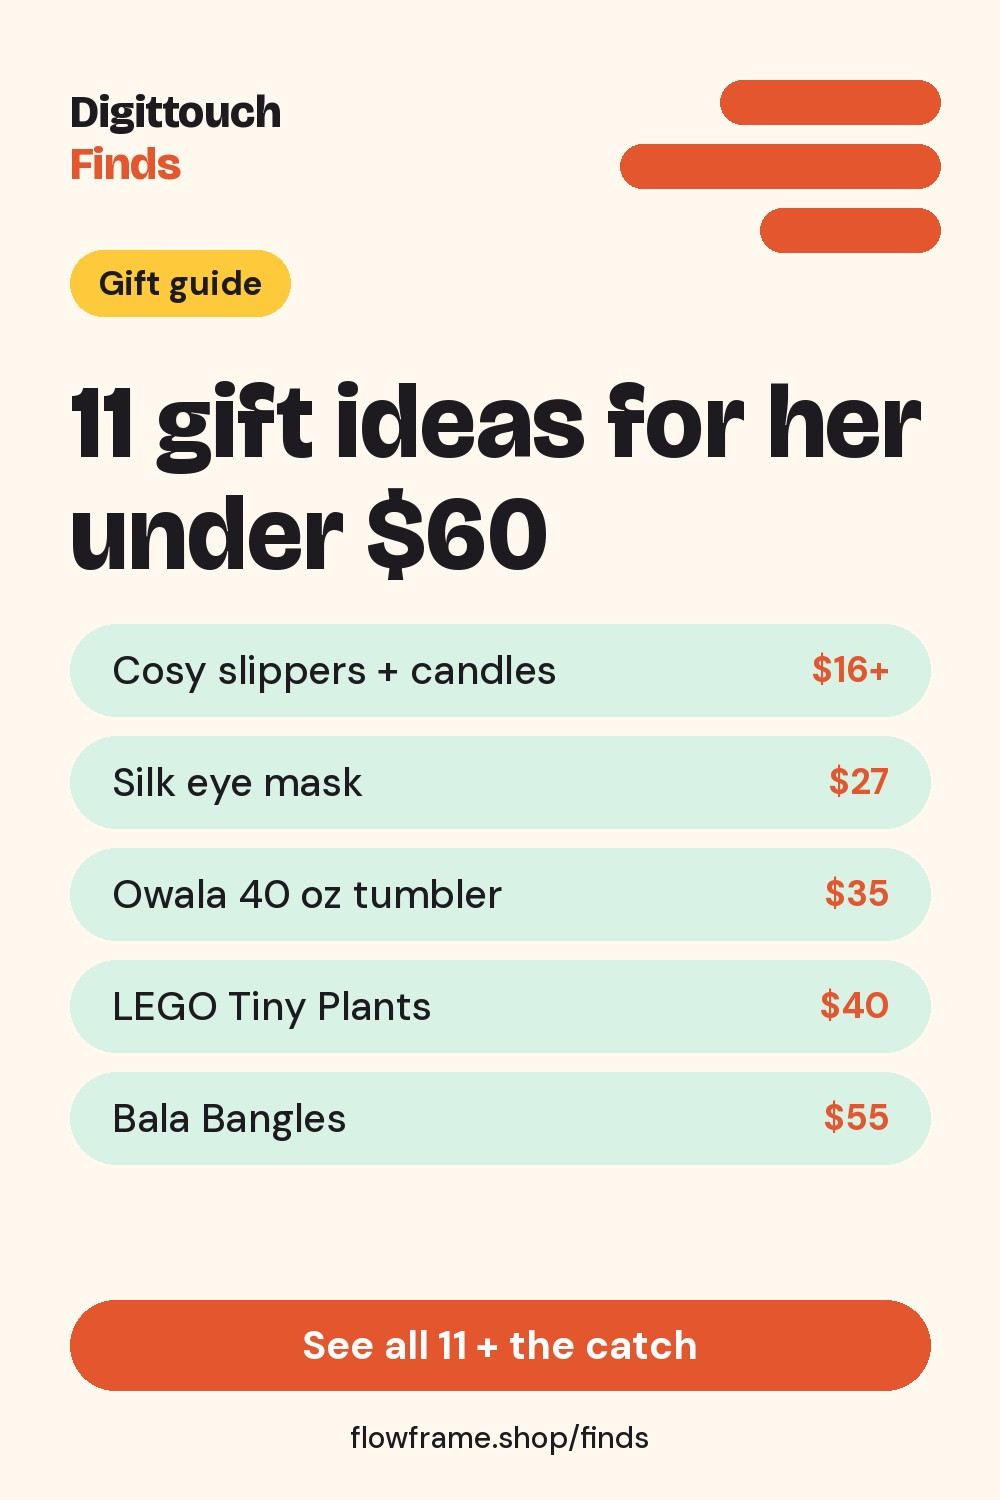
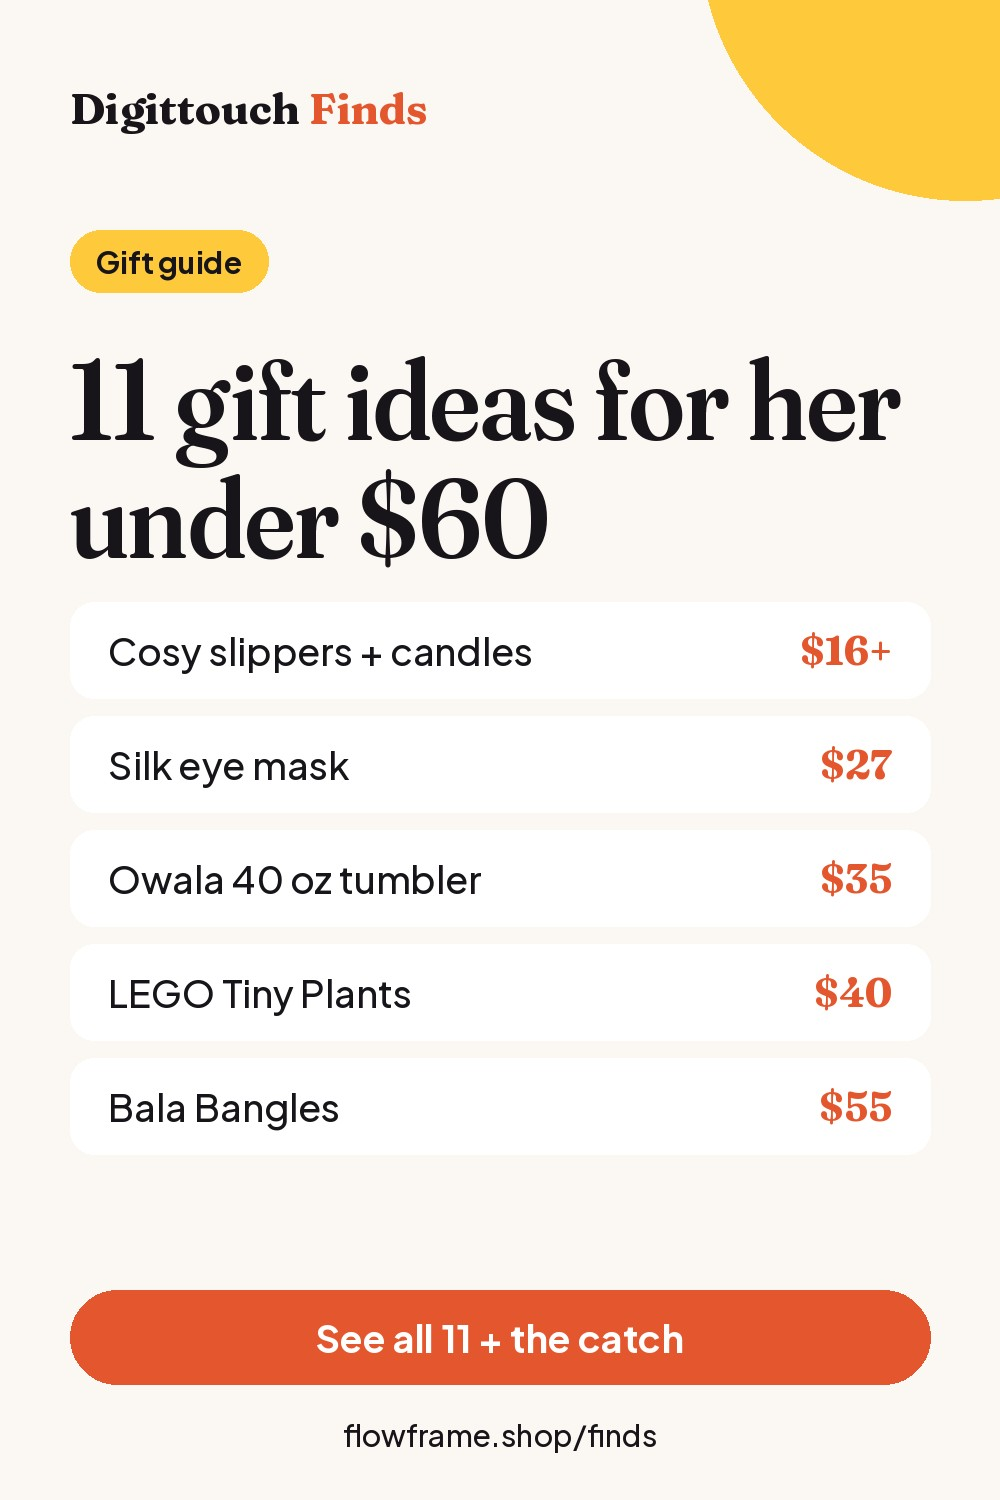
Guide typography v5: Fraunces display + Plus Jakarta Sans text; layout polish; pins re-set in new type
Claude-Session: https://claude.ai/code/session_019XvKWV1P2AaK72kiW6zZbX

diff --git a/finds/guide.css b/finds/guide.css
@@ -5,8 +5,8 @@
   --band-1:var(--sun);--band-2:var(--mint);--band-3:var(--lilac);
   --radius:22px;
 }
-body.guide{background:var(--paper);color:var(--ink);font:17px/1.6 "DM Sans",system-ui,sans-serif}
-body.guide h1,body.guide h2,body.guide h3{font-family:"Bricolage Grotesque","DM Sans",sans-serif;letter-spacing:-.025em}
+body.guide{background:var(--paper);color:var(--ink);font:17px/1.6 "Plus Jakarta Sans",system-ui,sans-serif}
+body.guide h1,body.guide h2,body.guide h3{font-family:"Fraunces",Georgia,serif;letter-spacing:-.025em}
 body.guide a{color:var(--coral-ink)}
 body.guide :focus-visible{outline:3px solid var(--coral);outline-offset:3px;border-radius:6px}
 body.guide main.g-body{width:100%;max-width:1160px;margin:0 auto;padding:0 20px}
@@ -34,7 +34,7 @@ body.guide .g-btn.ghost{color:#fff;box-shadow:inset 0 0 0 2px rgba(255,255,255,.
 /* starburst countdown (the one loud element) */
 .g-burst{flex:none;width:170px;aspect-ratio:1;background:var(--sun);color:var(--ink);display:grid;place-content:center;text-align:center;transform:rotate(10deg);margin-bottom:10px;
   clip-path:polygon(50% 0%,56.5% 9.6%,67% 3.6%,69.6% 15.1%,81.6% 13.4%,79.9% 25.4%,91.4% 28%,85.4% 38.5%,95% 45%,85.4% 51.5%,91.4% 62%,79.9% 64.6%,81.6% 76.6%,69.6% 74.9%,67% 86.4%,56.5% 80.4%,50% 90%,43.5% 80.4%,33% 86.4%,30.4% 74.9%,18.4% 76.6%,20.1% 64.6%,8.6% 62%,14.6% 51.5%,5% 45%,14.6% 38.5%,8.6% 28%,20.1% 25.4%,18.4% 13.4%,30.4% 15.1%,33% 3.6%,43.5% 9.6%)}
-.g-burst b{display:block;font:800 62px/.9 "Bricolage Grotesque",sans-serif;letter-spacing:-.04em}
+.g-burst b{display:block;font:800 62px/.9 "Fraunces",Georgia,serif;letter-spacing:-.04em}
 .g-burst span{display:block;font-weight:700;font-size:14px;line-height:1.15;max-width:110px;margin:4px auto 0}
 @media (prefers-reduced-motion:no-preference){
   .g-hero>img{animation:slowzoom 18s ease-out both}
@@ -45,7 +45,7 @@ body.guide .g-btn.ghost{color:#fff;box-shadow:inset 0 0 0 2px rgba(255,255,255,.
 
 /* ticker */
 .g-ticker{background:var(--coral);color:#fff;overflow:hidden;white-space:nowrap}
-.g-ticker .track{display:inline-flex;padding:13px 0;font:800 21px/1 "Bricolage Grotesque",sans-serif}
+.g-ticker .track{display:inline-flex;padding:13px 0;font:800 21px/1 "Fraunces",Georgia,serif}
 .g-ticker .track span{padding:0 22px}
 .g-ticker .track span::after{content:"\2726";margin-left:44px;color:var(--sun)}
 @media (prefers-reduced-motion:no-preference){.g-ticker .track{animation:tick 32s linear infinite}@keyframes tick{to{transform:translateX(-50%)}}}
@@ -63,7 +63,7 @@ body.guide .g-bar a.all{background:var(--ink);color:var(--paper)}
 .g-people{margin:40px 0 0}
 .g-people h2,.g-top h2,.g-table h2{font-size:clamp(28px,4vw,40px);line-height:1.05;margin:0 0 16px}
 .g-chips{display:flex;flex-wrap:wrap;gap:10px}
-.g-chip{font:600 15px/1 "DM Sans",sans-serif;background:#fff;color:var(--ink);border:1.5px solid var(--line);border-radius:99px;padding:12px 18px;cursor:pointer;box-shadow:0 1px 2px rgba(23,21,26,.06)}
+.g-chip{font:600 15px/1 "Plus Jakarta Sans",sans-serif;background:#fff;color:var(--ink);border:1.5px solid var(--line);border-radius:99px;padding:12px 18px;cursor:pointer;box-shadow:0 1px 2px rgba(23,21,26,.06)}
 .g-chip:hover{border-color:var(--ink)}
 .g-chip[aria-pressed="true"]{background:var(--ink);color:#fff;border-color:var(--ink)}
 .g-status{font-size:15px;color:var(--muted);min-height:1.6em;margin:10px 0 0}
@@ -75,7 +75,7 @@ body.guide .g-topcard{display:block;text-decoration:none;color:var(--ink);backgr
 .g-topcard:hover{transform:translateY(-4px)}
 .g-topcard img{display:block;width:100%;aspect-ratio:5/4;object-fit:cover}
 .g-topcard .why{display:block;color:var(--coral-ink);font-weight:700;font-size:14px;margin:16px 18px 2px}
-.g-topcard b{display:block;font:800 22px/1.15 "Bricolage Grotesque",sans-serif;letter-spacing:-.02em;margin:0 18px 6px}
+.g-topcard b{display:block;font:800 22px/1.15 "Fraunces",Georgia,serif;letter-spacing:-.02em;margin:0 18px 6px}
 .g-topcard .p{display:block;margin:0 18px 18px;font-weight:700}
 
 /* budget banner */
@@ -99,9 +99,9 @@ body.guide .g-topcard{display:block;text-decoration:none;color:var(--ink);backgr
 .g-photo{position:relative;aspect-ratio:4/3;background:var(--line)}
 .g-photo img{display:block;width:100%;height:100%;object-fit:cover}
 .g-badge{position:absolute;left:14px;top:14px;background:var(--ink);color:#fff;font-weight:700;font-size:13px;padding:6px 12px;border-radius:99px}
-.g-tag{position:absolute;right:14px;bottom:-16px;z-index:2;background:var(--sun);color:var(--ink);padding:10px 16px 10px 28px;font:800 24px/1 "Bricolage Grotesque",sans-serif;letter-spacing:-.02em;transform:rotate(-4deg);clip-path:polygon(14px 0,100% 0,100% 100%,14px 100%,0 50%);box-shadow:0 6px 16px rgba(0,0,0,.18)}
+.g-tag{position:absolute;right:14px;bottom:-16px;z-index:2;background:var(--sun);color:var(--ink);padding:10px 16px 10px 28px;font:800 24px/1 "Fraunces",Georgia,serif;letter-spacing:-.02em;transform:rotate(-4deg);clip-path:polygon(14px 0,100% 0,100% 100%,14px 100%,0 50%);box-shadow:0 6px 16px rgba(0,0,0,.18)}
 .g-tag::before{content:"";position:absolute;left:12px;top:50%;width:7px;height:7px;margin-top:-3.5px;border-radius:50%;background:#fff}
-.g-tag small{display:block;font:600 11px "DM Sans",sans-serif;margin-top:3px;letter-spacing:0}
+.g-tag small{display:block;font:600 11px "Plus Jakarta Sans",sans-serif;margin-top:3px;letter-spacing:0}
 .g-info{padding:26px 22px 22px;display:flex;flex-direction:column;flex:1}
 .g-info h3{font-size:23px;line-height:1.15;margin:0 0 8px}
 .g-info p{margin:0 0 12px;font-size:16px;color:#2D2A31}
@@ -154,3 +154,36 @@ body.guide .g-pin{display:inline-block;background:#E60023;color:#fff;font-weight
 .g-banner h2{white-space:nowrap}
 .g-banner-copy{max-width:none}
 @media (max-width:640px){.g-banner h2{white-space:normal}}
+
+/* ---- typography v5: Fraunces (display) + Plus Jakarta Sans (text) ---- */
+body.guide h1,body.guide h2,body.guide h3,body.guide .g-tag,body.guide .g-burst b,body.guide .g-topcard b,body.guide .g-ticker .track{font-family:"Fraunces",Georgia,serif;font-optical-sizing:auto;font-variation-settings:"SOFT" 50,"WONK" 0}
+body.guide header.site .logo{font-family:"Fraunces",Georgia,serif;font-weight:700;letter-spacing:-.01em}
+.g-hero h1{font-weight:600;letter-spacing:-.03em;line-height:.95}
+.g-hero h1 .price{font-weight:700;padding:.02em .16em .06em;border-radius:.12em}
+.g-banner h2{font-weight:600;letter-spacing:-.035em;line-height:.9}
+.g-people h2,.g-top h2,.g-table h2,.g-save h2{font-weight:600;letter-spacing:-.02em}
+.g-info h3{font-size:22px;font-weight:600;letter-spacing:-.01em;line-height:1.2}
+.g-topcard b{font-weight:600;letter-spacing:-.01em}
+.g-tag{font-weight:700;letter-spacing:-.01em}
+.g-burst b{font-weight:700;letter-spacing:-.03em}
+.g-ticker .track{font-weight:600;font-style:italic;letter-spacing:0}
+.g-notes h2{font-weight:600}
+body.guide .g-btn,body.guide .g-cta,body.guide .g-bar a,.g-chip,.g-badge,.g-for li,.g-meta li{font-family:"Plus Jakarta Sans",system-ui,sans-serif}
+body.guide .g-btn,body.guide .g-cta{font-weight:700;letter-spacing:.005em}
+
+/* ---- v5 polish ---- */
+body.guide header.site .wrap.wide,body.guide footer.site .wrap.wide{max-width:1160px;padding-left:20px;padding-right:20px}
+.g-banner p{max-width:460px}
+body.guide .g-table td a{color:var(--ink);text-decoration:none;font-weight:600}
+body.guide .g-table td a:hover{color:var(--coral-ink);text-decoration:underline}
+body.guide .g-notes a{color:var(--ink);text-decoration-color:var(--coral);text-underline-offset:3px}
+@media (max-width:860px){
+  .g-hero h1{font-size:clamp(52px,14vw,72px)}
+  .g-hero-ctas .g-btn{flex:1 1 auto;text-align:center}
+  .g-top ol{gap:12px}
+  body.guide .g-topcard{display:grid;grid-template-columns:120px 1fr;align-items:center}
+  .g-topcard img{grid-row:1/4;height:100%;aspect-ratio:auto;min-height:120px}
+  .g-topcard .why{margin:14px 16px 0}
+  .g-topcard b{font-size:19px;margin:2px 16px}
+  .g-topcard .p{margin:0 16px 14px}
+}

diff --git a/finds/gifts-for-her-under-60/index.html b/finds/gifts-for-her-under-60/index.html
@@ -2,8 +2,8 @@
 <title>11 Gift Ideas for Her Under $60 (Before Black Friday 2026) | Digittouch Finds</title><meta name="description" content="Gift ideas for her under $60, grouped by budget and by who she is: cosy, beauty, drinkware, decor and jewellery picks from this season&#x27;s gift lists, each with the honest catch."><link rel="canonical" href="https://flowframe.shop/finds/gifts-for-her-under-60/">
 <meta property="og:title" content="11 Gift Ideas for Her Under $60 (Before Black Friday 2026)"><meta property="og:description" content="Gift ideas for her under $60, grouped by budget and by who she is: cosy, beauty, drinkware, decor and jewellery picks from this season&#x27;s gift lists, each with the honest catch."><meta property="og:type" content="article"><meta property="og:url" content="https://flowframe.shop/finds/gifts-for-her-under-60/"><meta property="og:image" content="https://flowframe.shop/pins/df-her60-a.jpg">
 <meta name="twitter:card" content="summary_large_image"><meta name="theme-color" content="#17151A">
-<link rel="preconnect" href="https://images.unsplash.com"><link rel="preconnect" href="https://fonts.googleapis.com"><link rel="preconnect" href="https://fonts.gstatic.com" crossorigin><link href="https://fonts.googleapis.com/css2?family=Bricolage+Grotesque:opsz,wght@12..96,600;12..96,800&family=DM+Sans:opsz,wght@9..40,400;9..40,600;9..40,700&display=swap" rel="stylesheet">
-<link rel="stylesheet" href="/style.css"><link rel="stylesheet" href="/finds/guide.css?v=7">
+<link rel="preconnect" href="https://images.unsplash.com"><link rel="preconnect" href="https://fonts.googleapis.com"><link rel="preconnect" href="https://fonts.gstatic.com" crossorigin><link href="https://fonts.googleapis.com/css2?family=Fraunces:opsz,wght,SOFT@9..144,600..700,50&family=Plus+Jakarta+Sans:wght@400;500;600;700&display=swap" rel="stylesheet">
+<link rel="stylesheet" href="/style.css"><link rel="stylesheet" href="/finds/guide.css?v=9">
 <script type="application/ld+json">{"@context": "https://schema.org", "@type": "ItemList", "name": "11 Gift Ideas for Her Under $60 (Before Black Friday 2026)", "numberOfItems": 11, "itemListElement": [{"@type": "ListItem", "position": 1, "name": "Fuzzy faux-fur slippers", "url": "https://flowframe.shop/finds/gifts-for-her-under-60/#slippers"}, {"@type": "ListItem", "position": 2, "name": "Candle warmer lamp", "url": "https://flowframe.shop/finds/gifts-for-her-under-60/#lamp"}, {"@type": "ListItem", "position": 3, "name": "P.F. Candle Co. Spruce candle", "url": "https://flowframe.shop/finds/gifts-for-her-under-60/#candle"}, {"@type": "ListItem", "position": 4, "name": "Hommey silk eye mask", "url": "https://flowframe.shop/finds/gifts-for-her-under-60/#mask"}, {"@type": "ListItem", "position": 5, "name": "Owala FreeSip 40 oz tumbler", "url": "https://flowframe.shop/finds/gifts-for-her-under-60/#owala"}, {"@type": "ListItem", "position": 6, "name": "Summer Fridays Jet Lag Essentials", "url": "https://flowframe.shop/finds/gifts-for-her-under-60/#summer"}, {"@type": "ListItem", "position": 7, "name": "Salt & Stone body wash, Bergamot & Hinoki", "url": "https://flowframe.shop/finds/gifts-for-her-under-60/#saltstone"}, {"@type": "ListItem", "position": 8, "name": "Gold cuff bracelet", "url": "https://flowframe.shop/finds/gifts-for-her-under-60/#cuff"}, {"@type": "ListItem", "position": 9, "name": "LEGO Botanicals Tiny Plants", "url": "https://flowframe.shop/finds/gifts-for-her-under-60/#lego"}, {"@type": "ListItem", "position": 10, "name": "Bala Bangles (1 lb pair)", "url": "https://flowframe.shop/finds/gifts-for-her-under-60/#bala"}, {"@type": "ListItem", "position": 11, "name": "Charlotte Tilbury mini beauty set", "url": "https://flowframe.shop/finds/gifts-for-her-under-60/#tilbury"}]}</script>
 </head>
 <body class="finds guide"><header class="site"><div class="wrap wide"><a class="logo" href="/finds/">Digittouch <span>Finds</span></a><nav><a href="/finds/">Finds</a><a href="/">FlowFrame</a><a href="/about/">About</a></nav></div></header>
@@ -91,4 +91,4 @@
 </main>
 <footer class="site"><div class="wrap wide"><p><a href="/disclosure/">Affiliate disclosure</a><a href="/privacy/">Privacy</a><a href="/about/">About</a><a href="/contact/">Contact</a></p>
 <p>&copy; 2026 Digittouch Finds, part of Digittouch Enterprise. As an Amazon Associate we earn from qualifying purchases.</p></div></footer>
-<script src="/finds/guide.js?v=7" defer></script></body></html>
+<script src="/finds/guide.js?v=9" defer></script></body></html>

diff --git a/_tools/build_guide.py b/_tools/build_guide.py
@@ -81,8 +81,8 @@ def build(data):
 <title>{E(title)} | Digittouch Finds</title><meta name="description" content="{E(desc)}"><link rel="canonical" href="{url}">
 <meta property="og:title" content="{E(title)}"><meta property="og:description" content="{E(desc)}"><meta property="og:type" content="article"><meta property="og:url" content="{url}"><meta property="og:image" content="{pin}">
 <meta name="twitter:card" content="summary_large_image"><meta name="theme-color" content="#17151A">
-<link rel="preconnect" href="https://images.unsplash.com"><link rel="preconnect" href="https://fonts.googleapis.com"><link rel="preconnect" href="https://fonts.gstatic.com" crossorigin><link href="https://fonts.googleapis.com/css2?family=Bricolage+Grotesque:opsz,wght@12..96,600;12..96,800&family=DM+Sans:opsz,wght@9..40,400;9..40,600;9..40,700&display=swap" rel="stylesheet">
-<link rel="stylesheet" href="/style.css"><link rel="stylesheet" href="/finds/guide.css?v=7">
+<link rel="preconnect" href="https://images.unsplash.com"><link rel="preconnect" href="https://fonts.googleapis.com"><link rel="preconnect" href="https://fonts.gstatic.com" crossorigin><link href="https://fonts.googleapis.com/css2?family=Fraunces:opsz,wght,SOFT@9..144,600..700,50&family=Plus+Jakarta+Sans:wght@400;500;600;700&display=swap" rel="stylesheet">
+<link rel="stylesheet" href="/style.css"><link rel="stylesheet" href="/finds/guide.css?v=9">
 <script type="application/ld+json">{json.dumps(ld)}</script>
 </head>
 <body class="finds guide"><header class="site"><div class="wrap wide"><a class="logo" href="/finds/">Digittouch <span>Finds</span></a><nav><a href="/finds/">Finds</a><a href="/">FlowFrame</a><a href="/about/">About</a></nav></div></header>
@@ -115,7 +115,7 @@ def build(data):
 </main>
 <footer class="site"><div class="wrap wide"><p><a href="/disclosure/">Affiliate disclosure</a><a href="/privacy/">Privacy</a><a href="/about/">About</a><a href="/contact/">Contact</a></p>
 <p>&copy; 2026 Digittouch Finds, part of Digittouch Enterprise. As an Amazon Associate we earn from qualifying purchases.</p></div></footer>
-<script src="/finds/guide.js?v=7" defer></script></body></html>'''
+<script src="/finds/guide.js?v=9" defer></script></body></html>'''
 
 
 if __name__ == "__main__":
